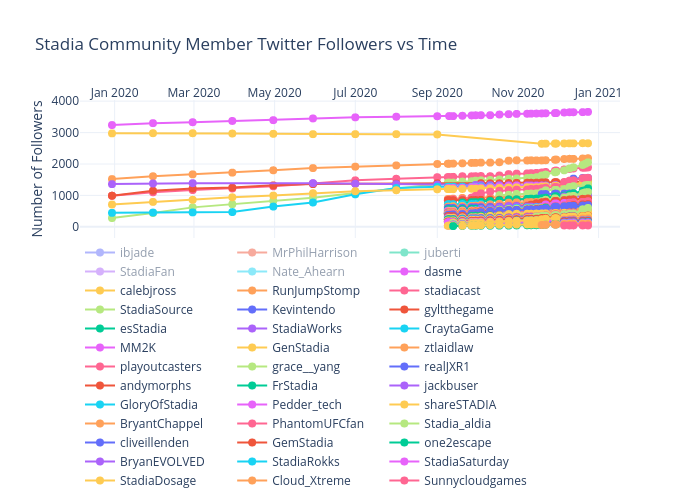
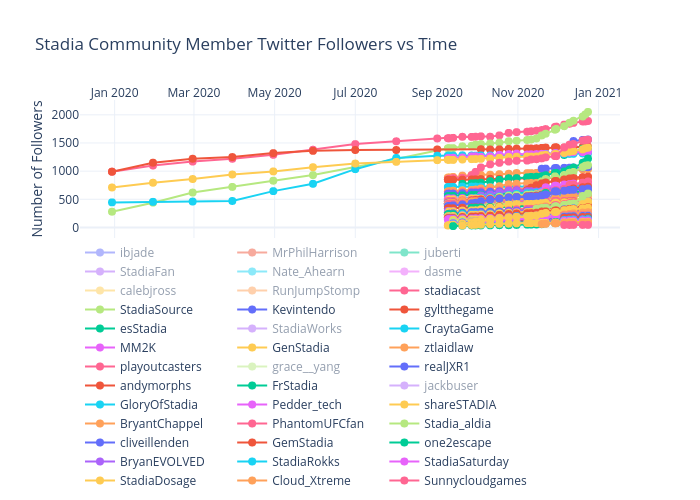
Add files via upload

diff --git a/twitter_community/figure.js b/twitter_community/figure.js
@@ -644,6 +644,7 @@ var figure = {
             "marker": {
                 "size": 8
             },
+            "visible": "legendonly",
             "stackgroup": null,
             "connectgaps": true
         },
@@ -751,6 +752,7 @@ var figure = {
             "marker": {
                 "size": 8
             },
+            "visible": "legendonly",
             "stackgroup": null,
             "connectgaps": true
         },
@@ -858,6 +860,7 @@ var figure = {
             "marker": {
                 "size": 8
             },
+            "visible": "legendonly",
             "stackgroup": null,
             "connectgaps": true
         },
@@ -1500,6 +1503,7 @@ var figure = {
             "marker": {
                 "size": 8
             },
+            "visible": "legendonly",
             "stackgroup": null,
             "connectgaps": true
         },
@@ -2142,6 +2146,7 @@ var figure = {
             "marker": {
                 "size": 8
             },
+            "visible": "legendonly",
             "stackgroup": null,
             "connectgaps": true
         },
@@ -2570,6 +2575,7 @@ var figure = {
             "marker": {
                 "size": 8
             },
+            "visible": "legendonly",
             "stackgroup": null,
             "connectgaps": true
         },
@@ -10618,8 +10624,8 @@ var figure = {
         "yaxis": {
             "type": "linear",
             "range": [
-                -462.23943661971833,
-                4144.239436619719
+                -148.027397260274,
+                2224.027397260274
             ],
             "title": {
                 "text": "Number of Followers"
